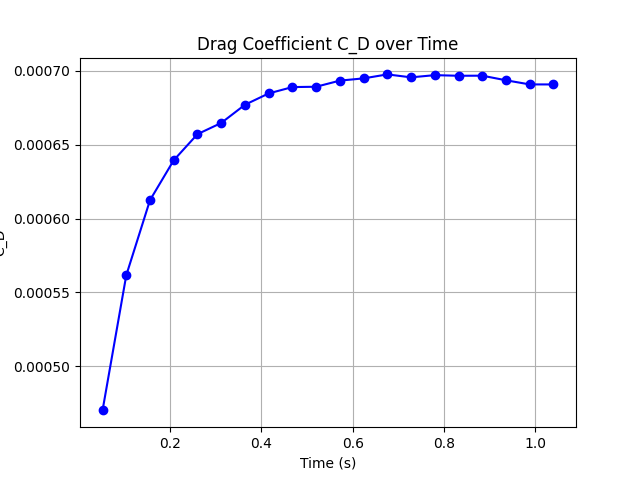
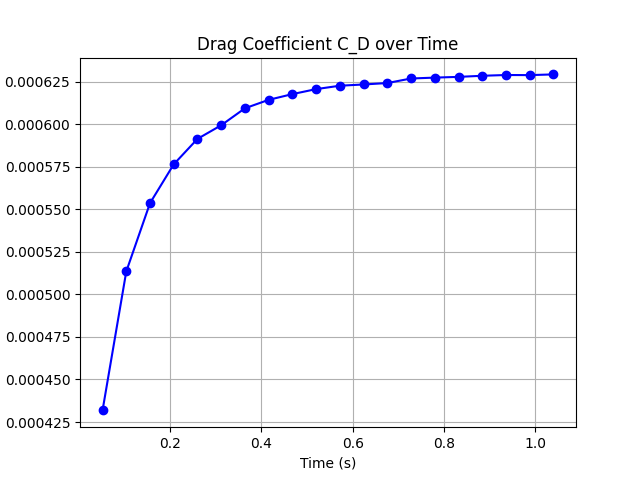
ああ

diff --git a/EllipticalFall2/x_H.py b/EllipticalFall2/x_H.py
@@ -2,20 +2,24 @@ import matplotlib.pyplot as plt
 import csv
 import numpy as np
 
-csv_file = 'x_H.csv'
-f = csv.reader(open(csv_file, 'r'), delimiter=',', doublequote=True, lineterminator='\r\n',
-               quotechar='"', skipinitialspace=True)
-C_D = []
-C_time = []
-for row in f:
-    if row[0] != 'x_H':
-        C_D.append(float(row[1]))
-        C_time.append(float(row[0]))
-plt.plot(C_time, C_D, marker='o', linestyle='-', color='b')
-plt.ylabel(r'$y/H$')
-plt.xlabel(r'$x/H$')
-plt.title('Drag Coefficient C_D over Time')
-plt.grid()
-# plt.xlim(200,300)
-# plt.ylim(0,2.3)
-plt.savefig('C_D_plot.png')
+def make_csv(csv_file):
+    f = csv.reader(open(csv_file+".csv", 'r'), delimiter=',', doublequote=True, lineterminator='\r\n',
+                   quotechar='"', skipinitialspace=True)
+    C_D = []
+    C_time = []
+    for row in f:
+        if row[0] != 'x_H':
+            C_D.append(float(row[1]))
+            C_time.append(float(row[0]))
+    plt.figure()
+    plt.plot(C_time, C_D, marker='o', linestyle='-', color='b')
+    plt.ylabel(r'$y/H$')
+    plt.xlabel(r'$x/H$')
+    # plt.title('Drag Coefficient C_D over Time')
+    plt.grid()
+    # plt.xlim(200,300)
+    # plt.ylim(0,2.3)
+    plt.savefig(csv_file+'.png')
+
+make_csv("x_H")
+make_csv("x_theta")

diff --git a/EllipticalFall2/make_ellipce.py b/EllipticalFall2/make_ellipce.py
@@ -3,9 +3,9 @@ import matplotlib.pyplot as plt
 import csv
 
 # パラメータ設定
-a = 1.0   # 長軸
-b = 0.5   # 短軸
-# b = 1.0   # 短軸
+a = 0.5   # 短軸 (x)
+b = 1.0   # 長軸 (z)
+# b = 1.0   # 
 n_points = int(100*1.19)  # 点群の数
 
 # 角度を細かく分割して近似的に弧長を計算
